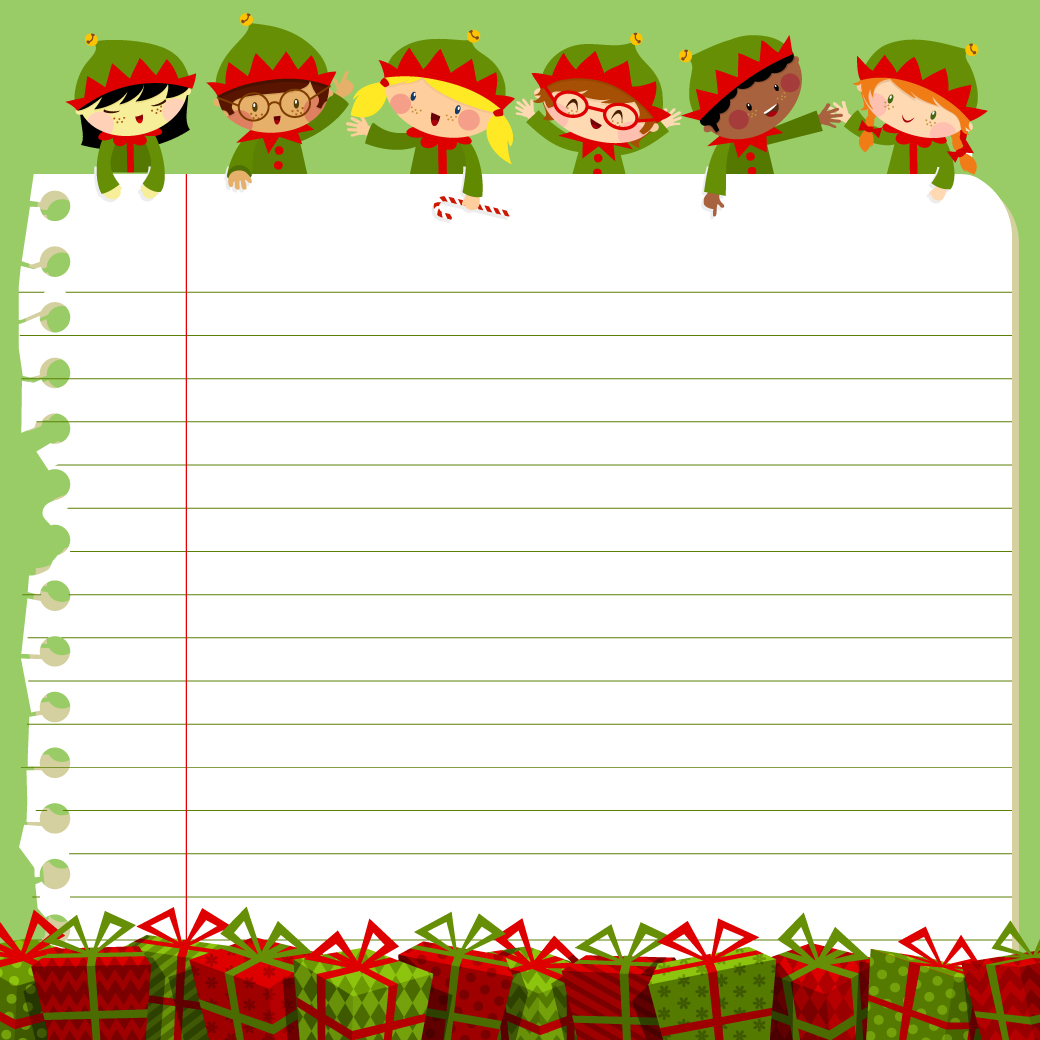
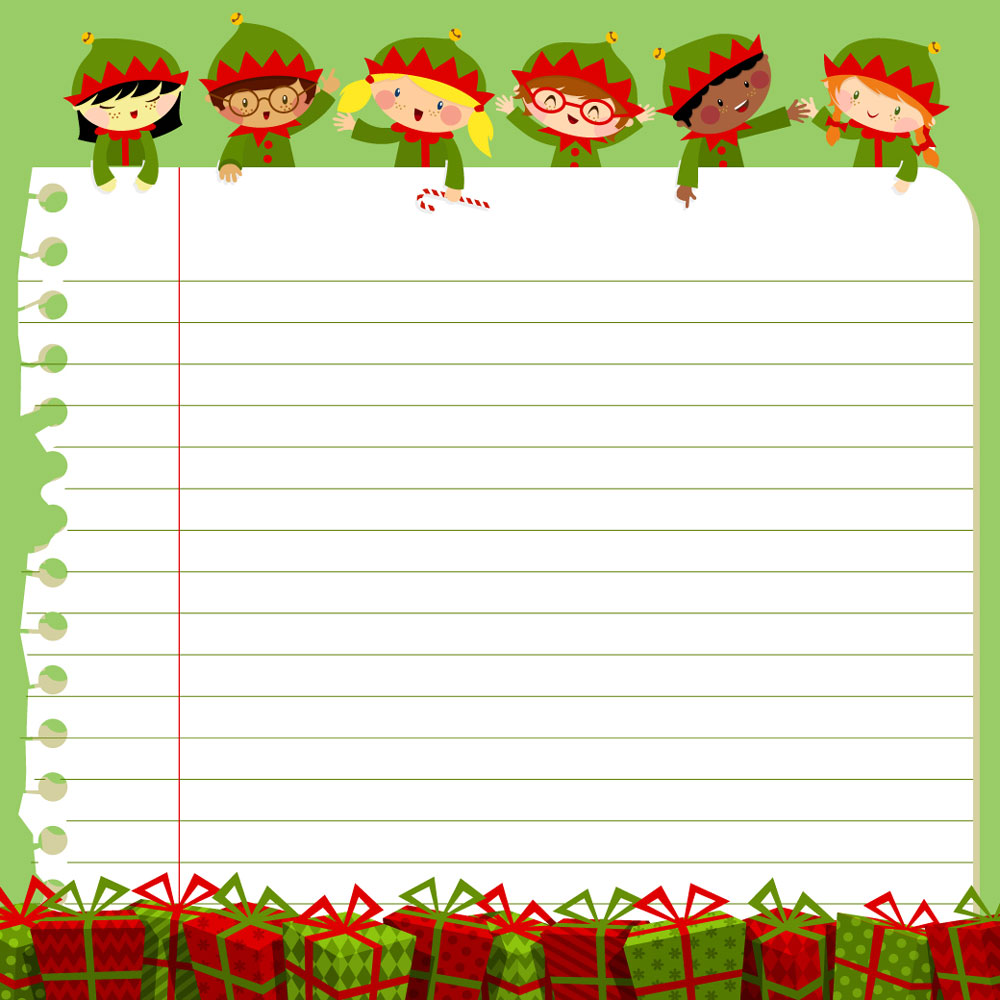
updated images, style updates.

diff --git a/app/assets/stylesheets/smacss/layout.scss b/app/assets/stylesheets/smacss/layout.scss
@@ -1,0 +1,14 @@
+@import "compass/css3";
+
+.l-container {
+	background: #9acd68 url(image-path("desktop1040elfwishlist.jpeg")) no-repeat;
+  min-height: 100%;
+  height: auto !important;
+  height: 100%;
+  padding-top: 200px;
+  @include box-shadow(rgba(blue, 0.4) 0 0 25px, rgba(green, 0.2) 0 0 3px 1px inset);
+}
+
+.l-spark-logo {
+  padding-top: 15px;
+}

diff --git a/app/assets/stylesheets/smacss/base.scss b/app/assets/stylesheets/smacss/base.scss
@@ -9,7 +9,15 @@ html {
 
 body {
   height: 100%;
-  background: $background-color;
+  background: transparent url(image-path("redbg400pixelsq.jpg"));
   font-family: $font-family;
-  padding-top: 100px;
+  padding-top: 50px;
+}
+
+.xl-type { font-size: 60px; }
+
+.large { font-size: 30px; }
+
+.bold {
+    font-weight: bold;
 }
